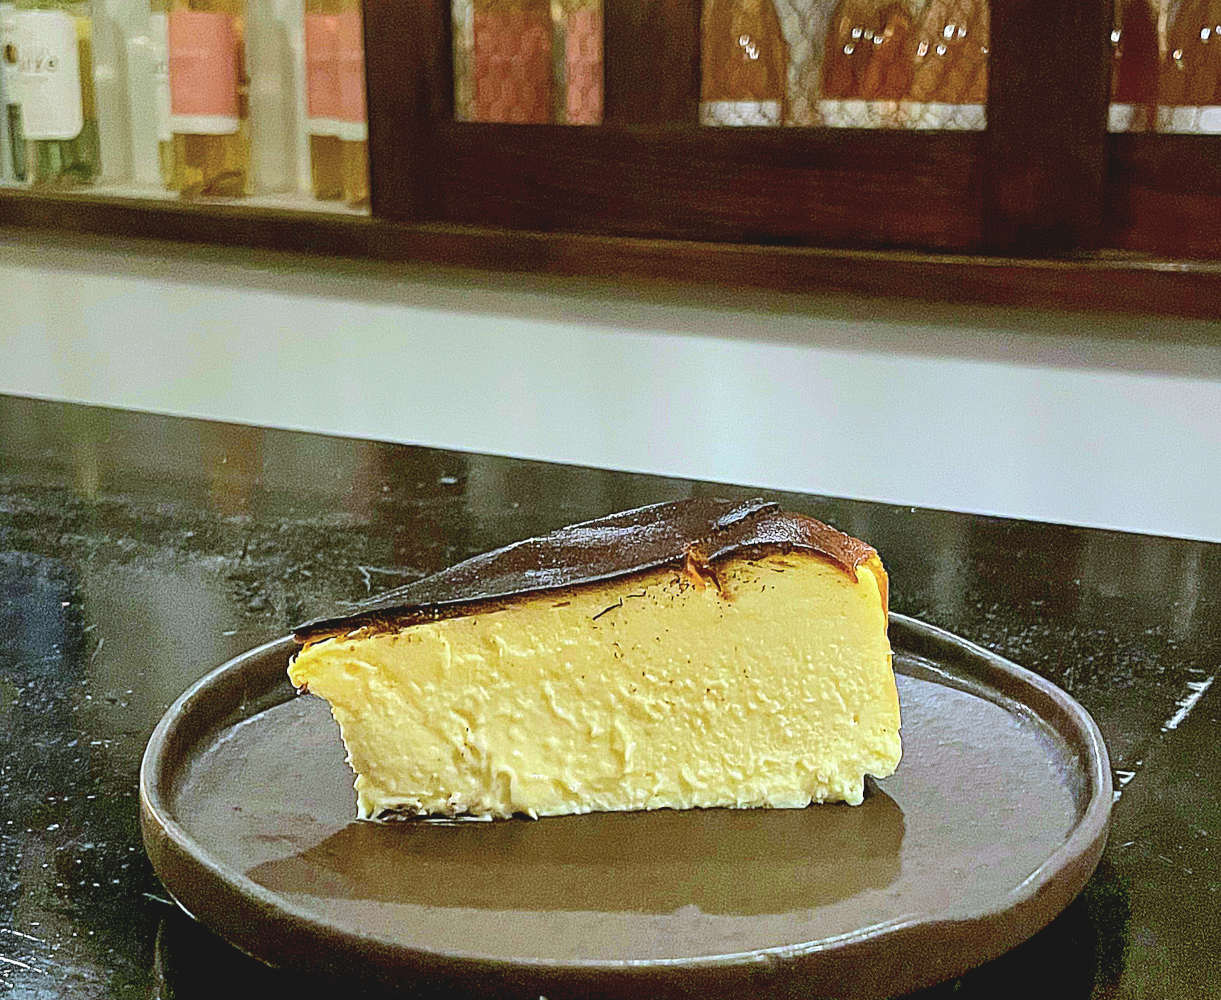
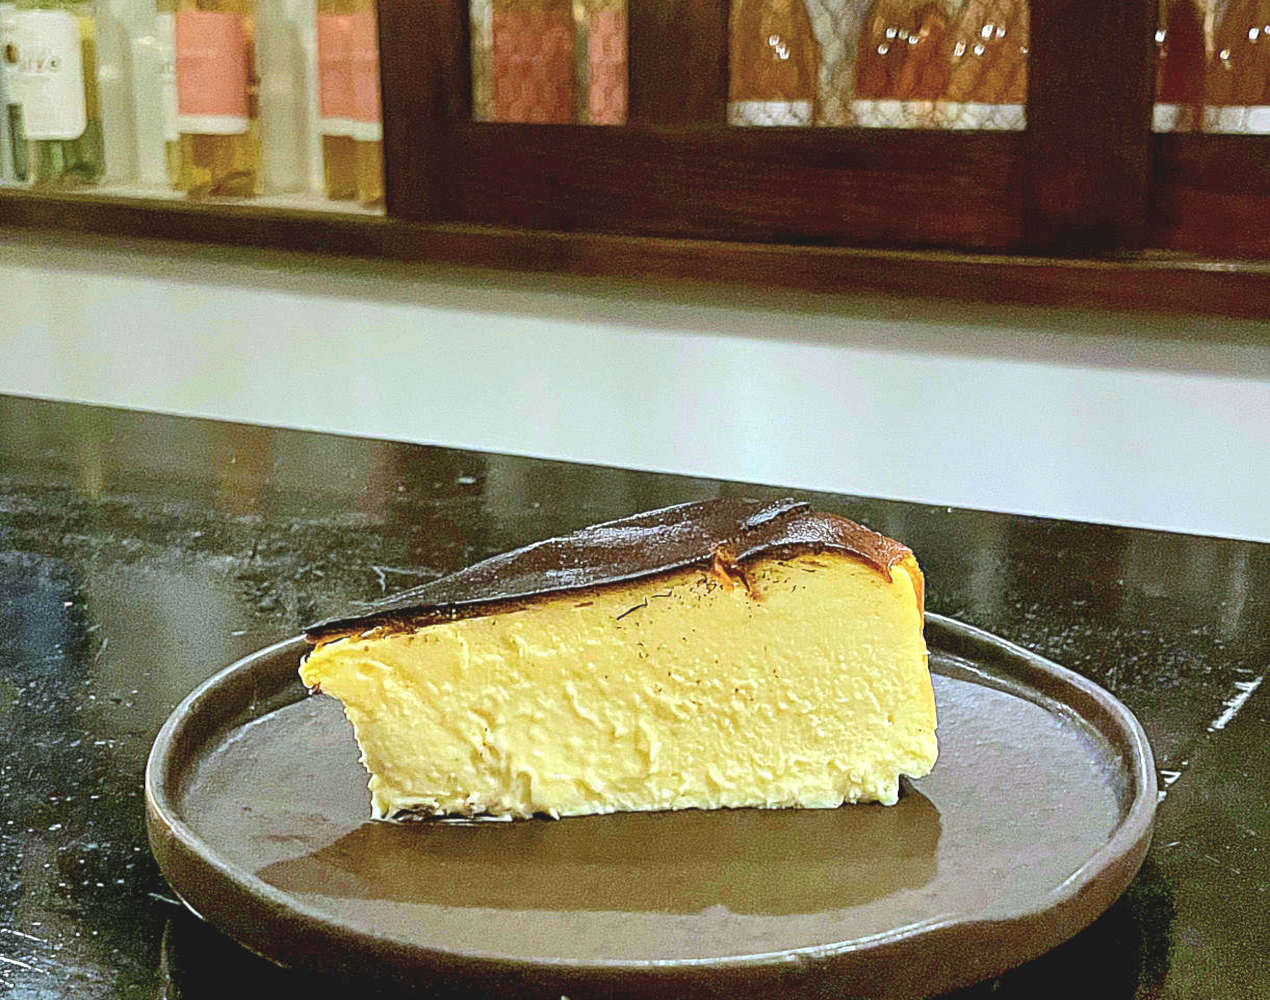
Ajuste das imagens

diff --git a/index.html b/index.html
@@ -87,7 +87,7 @@ function fecharImagem() {
             <h2>NOSSA CHEESECAKE BASQUE</h2>
             <div class="grid-galeria">
                 <img src="images/cheesecake21.webp" alt="Cheesecake Basco" onclick="abrirImagem(this)">
-                <img src="images/cheesecake20.webp" alt="Cheesecake Basco" onclick="abrirImagem(this)">
+                <img src="images/cheesecake22.webp" alt="Cheesecake Basco" onclick="abrirImagem(this)">
                 <img src="images/fatia.jpg" alt="Cheesecake Basco" onclick="abrirImagem(this)">
             </div>
         </div>